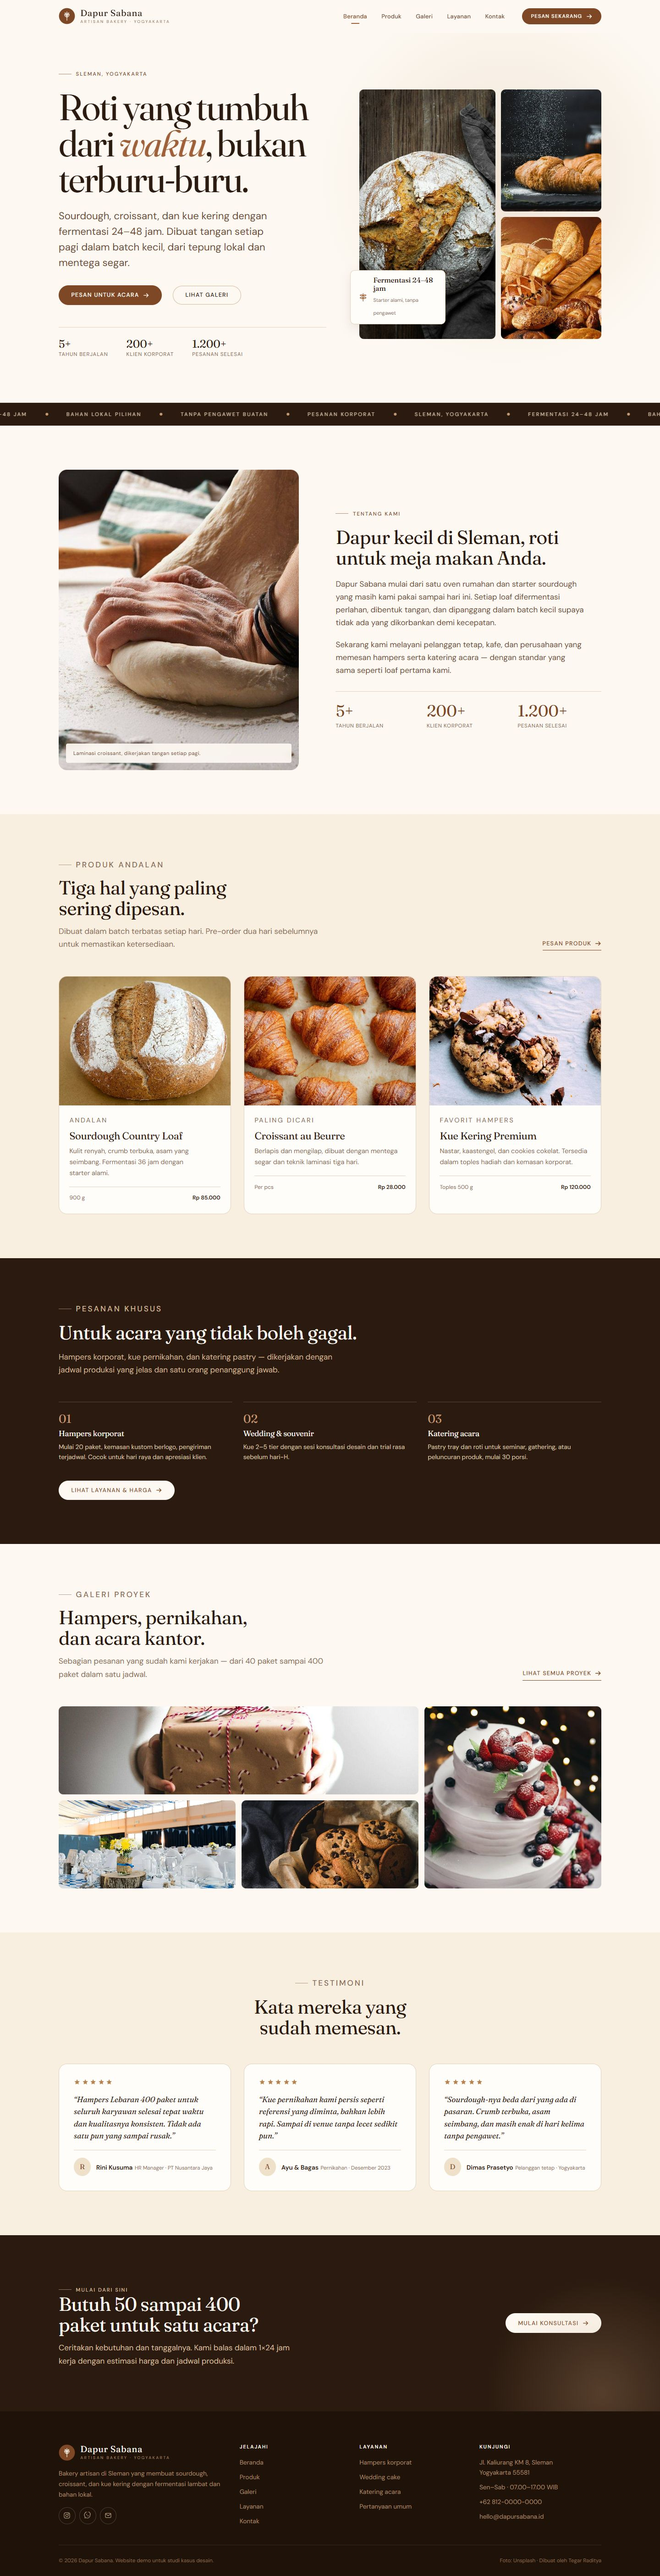
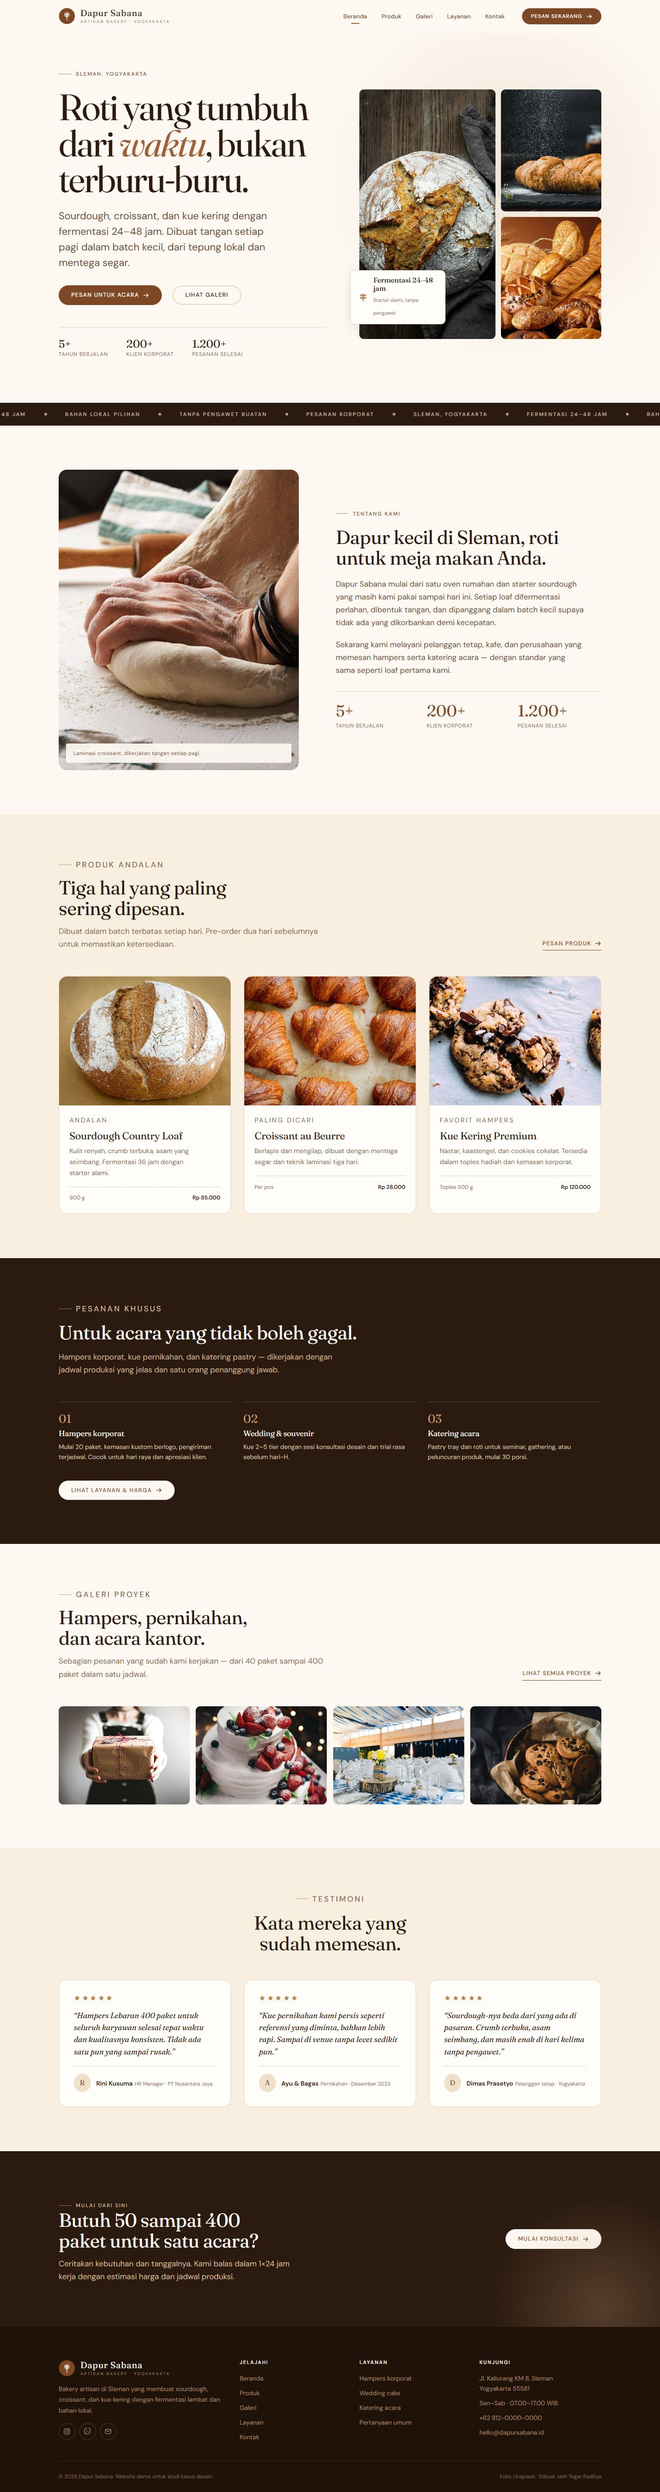
fix: align gallery tiles into a uniform grid

diff --git a/galeri.html b/galeri.html
@@ -91,7 +91,7 @@
 
       <div class="gallery-grid">
 
-        <button class="gallery-item gallery-item--wide reveal" type="button"
+        <button class="gallery-item reveal" type="button"
                 data-gallery-item data-category="hampers"
                 data-title="Hampers Lebaran korporat"
                 data-meta="PT Nusantara Jaya · 400 paket · April 2024">
@@ -107,7 +107,7 @@
           </span>
         </button>
 
-        <button class="gallery-item gallery-item--tall reveal" type="button" style="--delay:60ms"
+        <button class="gallery-item reveal" type="button" style="--delay:60ms"
                 data-gallery-item data-category="pernikahan"
                 data-title="Wedding cake 3 tier"
                 data-meta="Ayu &amp; Bagas · Sleman · Desember 2023">
@@ -171,7 +171,7 @@
           </span>
         </button>
 
-        <button class="gallery-item gallery-item--tall reveal" type="button" style="--delay:300ms"
+        <button class="gallery-item reveal" type="button" style="--delay:300ms"
                 data-gallery-item data-category="acara"
                 data-title="Pastry box rapat divisi"
                 data-meta="30 box · klien korporat · 2024">
@@ -203,7 +203,7 @@
           </span>
         </button>
 
-        <button class="gallery-item gallery-item--wide reveal" type="button" style="--delay:420ms"
+        <button class="gallery-item reveal" type="button" style="--delay:420ms"
                 data-gallery-item data-category="acara"
                 data-title="Roti meja rapat"
                 data-meta="40 porsi · rapat divisi · 2024">

diff --git a/assets/css/style.css b/assets/css/style.css
@@ -904,7 +904,6 @@ body.nav-open .nav-toggle span::after {
 .gallery-grid {
   display: grid;
   grid-template-columns: repeat(4, 1fr);
-  grid-auto-rows: 12rem;
   gap: 0.85rem;
 }
 
@@ -916,21 +915,7 @@ body.nav-open .nav-toggle span::after {
   padding: 0;
   text-align: left;
   color: var(--cream-50);
-  grid-column: span 1;
-  grid-row: span 1;
-}
-
-.gallery-item--wide {
-  grid-column: span 2;
-}
-
-.gallery-item--tall {
-  grid-row: span 2;
-}
-
-/* Homepage preview: 3 columns pack the 4 teaser tiles without a gap. */
-.gallery-grid--three {
-  grid-template-columns: repeat(3, 1fr);
+  aspect-ratio: 4 / 3;
 }
 
 .gallery-item img {
@@ -1901,10 +1886,6 @@ a.contact-card:hover {
     grid-template-columns: repeat(2, 1fr);
   }
 
-  .gallery-grid {
-    grid-template-columns: repeat(3, 1fr);
-  }
-
   .footer__grid {
     grid-template-columns: 1fr 1fr;
   }
@@ -1917,6 +1898,10 @@ a.contact-card:hover {
 @media (max-width: 860px) {
   :root {
     --header-h: 4rem;
+  }
+
+  .gallery-grid {
+    grid-template-columns: repeat(2, 1fr);
   }
 
   .nav {
@@ -1989,23 +1974,6 @@ a.contact-card:hover {
   .process,
   .footer__grid {
     grid-template-columns: 1fr;
-  }
-
-  .gallery-grid {
-    grid-template-columns: repeat(2, 1fr);
-    grid-auto-rows: 9.5rem;
-  }
-
-  .gallery-item--wide {
-    grid-column: span 2;
-  }
-
-  .gallery-item--tall {
-    grid-row: span 1;
-  }
-
-  .gallery-grid--three .gallery-item--tall {
-    grid-row: span 2;
   }
 
   .hero__media {

diff --git a/index.html b/index.html
@@ -307,8 +307,8 @@
         </a>
       </div>
 
-      <div class="gallery-grid gallery-grid--three">
-        <a class="gallery-item gallery-item--wide reveal" href="galeri.html">
+      <div class="gallery-grid">
+        <a class="gallery-item reveal" href="galeri.html">
           <img src="assets/img/gallery-hampers.jpg" width="1200" height="800"
                alt="Tangan memegang kotak hadiah kraft berhias pita merah"
                loading="lazy" decoding="async">
@@ -318,7 +318,7 @@
           </div>
         </a>
 
-        <a class="gallery-item gallery-item--tall reveal" href="galeri.html" style="--delay:80ms">
+        <a class="gallery-item reveal" href="galeri.html" style="--delay:80ms">
           <img src="assets/img/gallery-wedding.jpg" width="936" height="1400"
                alt="Kue pernikahan berlapis dengan hiasan stroberi segar"
                loading="lazy" decoding="async">
